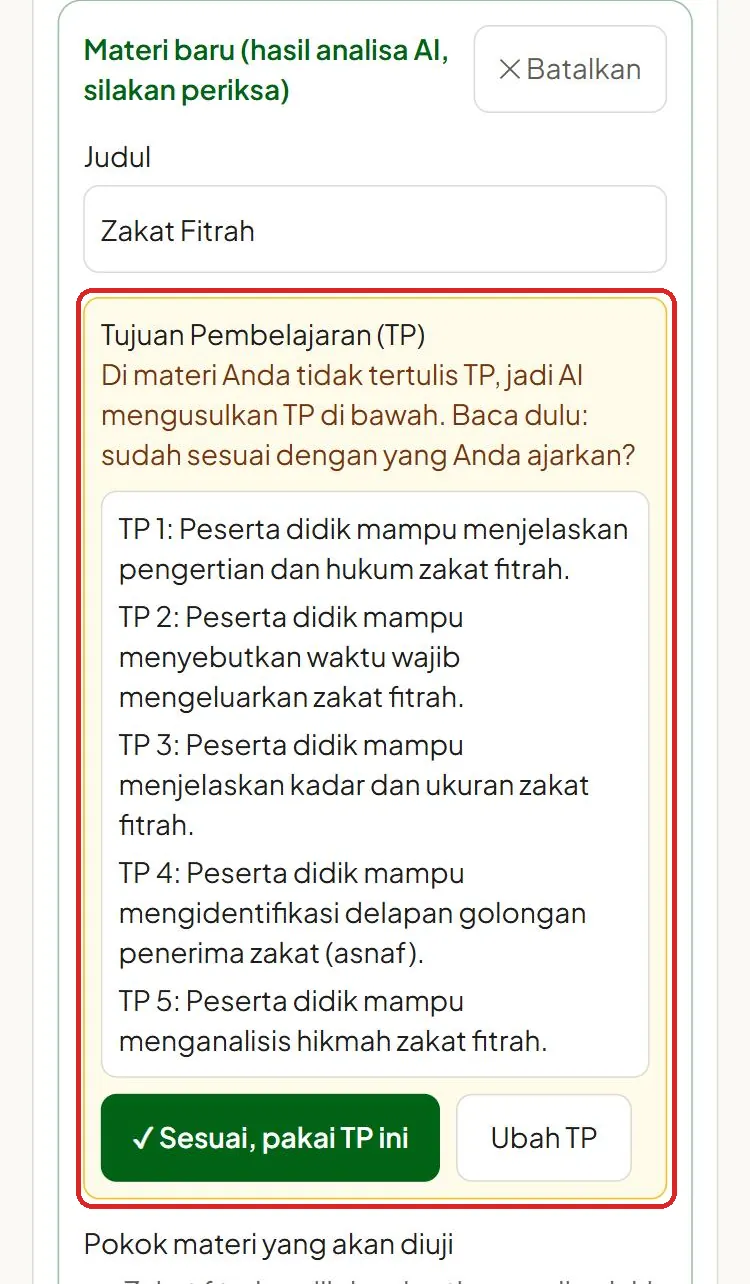
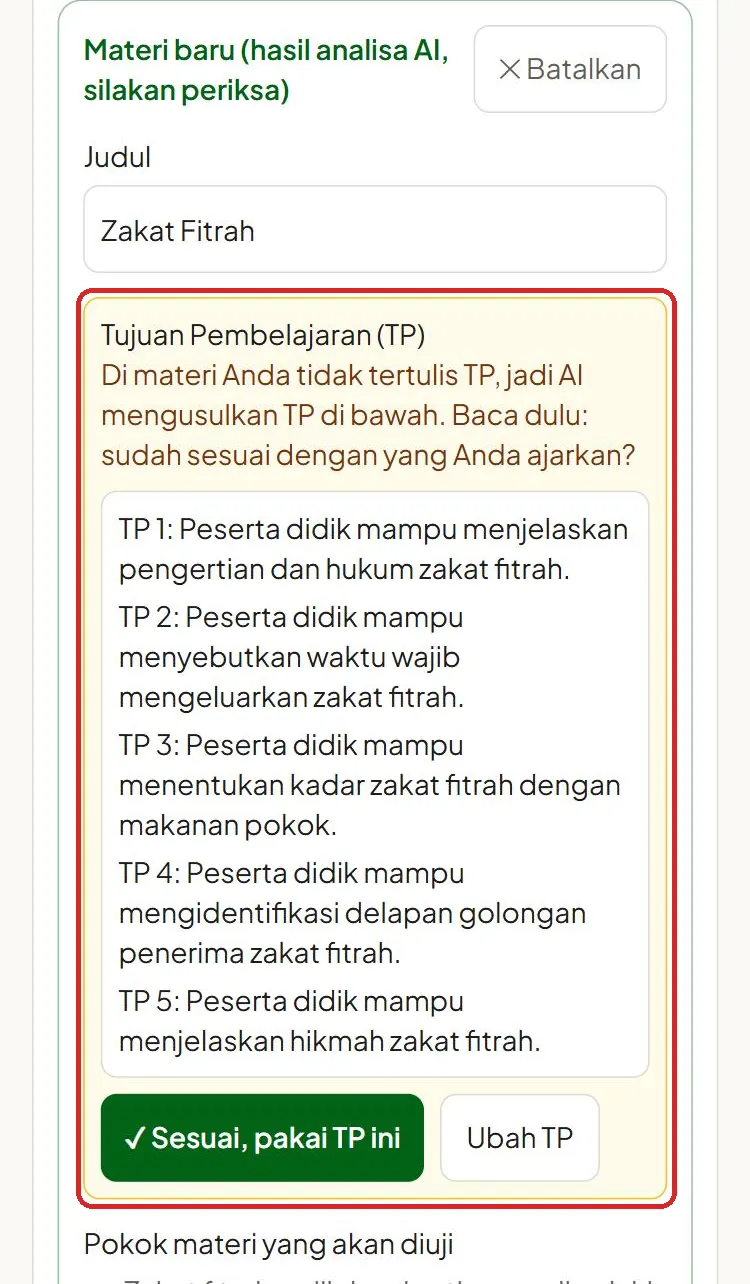
Versi 0.65.1: tombol TP seukuran tombol lain di kartu materi
Sesuai/Selesai = TOMBOL_HIJAU (h-8, seperti Ambil ayat), Ubah TP = TOMBOL_KECIL.
Gambar Panduan 2-kartu-materi diambil ulang.

diff --git a/src/app/kotak-materi.tsx b/src/app/kotak-materi.tsx
@@ -477,6 +477,9 @@ export function lihatDalil({ no, kolom }: { no: number; kolom: "arab" | "sumber"
   }, 50);
 }
 
+// Seukuran tombol "Ambil ayat" / "✕ Batalkan" di kartu yang sama (0.65.1: dulu h-10, terlalu besar).
+const TOMBOL_HIJAU = "h-8 rounded-lg bg-hijau px-3 text-sm font-semibold text-white disabled:opacity-40 max-md:min-h-11";
+
 /** 0.65.0: gulir ke kotak TP (dari pesan di dekat tombol Buat soal/Simpan), fokus ke tombolnya, kotak berkedip sebentar. */
 export function lihatTp() {
   const kotak = document.getElementById("kotak-tp");
@@ -605,7 +608,7 @@ export function KartuMateri({ draf, setDraf, judul, batal, calon, ditolak }: { d
             {ubahTp ? (
               <button
                 type="button"
-                className="h-10 rounded-lg bg-hijau px-4 font-semibold text-white disabled:opacity-40 max-md:min-h-11"
+                className={TOMBOL_HIJAU}
                 disabled={!daftarTp.length}
                 onClick={() => {
                   setUbahTp(false);
@@ -617,11 +620,11 @@ export function KartuMateri({ draf, setDraf, judul, batal, calon, ditolak }: { d
             ) : (
               <>
                 {tungguTp && (
-                  <button id="setuju-tp" type="button" className="h-10 rounded-lg bg-hijau px-4 font-semibold text-white max-md:min-h-11" onClick={() => ubah({ tpDibaca: true })}>
+                  <button id="setuju-tp" type="button" className={TOMBOL_HIJAU} onClick={() => ubah({ tpDibaca: true })}>
                     ✓ Sesuai, pakai TP ini
                   </button>
                 )}
-                <button type="button" className={`${tungguTp ? "h-10 px-4 max-md:min-h-11" : "h-8 px-3 text-sm max-md:min-h-11"} rounded-lg border bg-kartu hover:bg-krem`} onClick={() => setUbahTp(true)}>
+                <button type="button" className={TOMBOL_KECIL} onClick={() => setUbahTp(true)}>
                   Ubah TP
                 </button>
               </>

diff --git a/CATATAN-VERSI.md b/CATATAN-VERSI.md
@@ -52,6 +52,10 @@ Dicoret: LJK dan lembar penilaian uraian (madrasah sudah punya LJK sendiri; rubr
 
 ---
 
+## 0.65.1 — 20 November 2026
+- Tombol **"✓ Sesuai, pakai TP ini"**, **"✓ Selesai, pakai TP ini"**, dan **"Ubah TP"** dikecilkan, seukuran tombol lain di
+  kartu materi (Ambil ayat, ✕ Batalkan). Di HP tetap minimal 44 px supaya mudah diketuk. Gambar Panduan diperbarui.
+
 ## 0.65.0 — 20 November 2026
 - **Langkah TP lebih mudah.** TP di kartu materi sekarang tampil sebagai **daftar yang mudah dibaca**, bukan kotak isian
   (dulu guru mengira harus mengetik).
